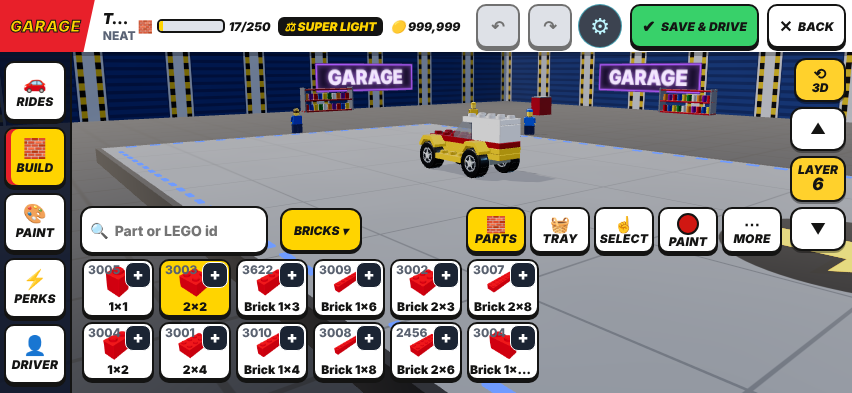
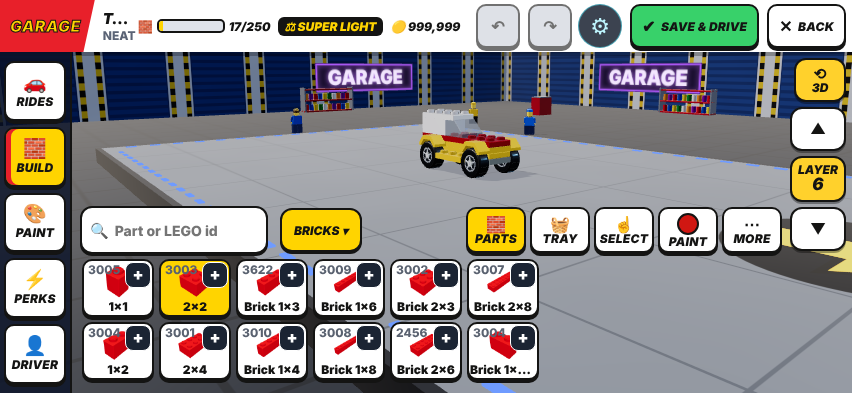
veh: Town Roadster (LEGO 604 Classic Town Car, fix: facing forward with --yaw 3, LDraw by Takeshi Takahashi, CCAL 2.0) as RIDES preset t_v604_1
Claude-Session: https://claude.ai/code/session_01EyTkWHVhqPJ5PdrDtAmH7s

Changed region(s): [[0.4883, 0.2748, 0.6103, 0.4275]]

diff --git a/src/98ld_v_604-1.js b/src/98ld_v_604-1.js
@@ -1,7 +1,7 @@
 // ---- LD data: real LEGO builds converted from LDraw OMR files (CCAL 2.0) by tools/ld/ld2garage.py + tools/ld/ld2src.py. Generated, do not edit.
 // Authors of the LDraw files: 604-1.mpd Takeshi Takahashi [RainbowDolphin]Takeshi Takahashi (RainbowDolphin). Details: docs/MODEL_PIPELINE.md.
[1 lines of base64/hex data omitted]
-Object.assign(LD_MODELS,{"v604_1":{"src":"604-1.mpd","by":"Takeshi Takahashi (RainbowDolphin)","n":17,"C":["#fac80a","#b40000","#8a928d","#1b2a34","#f4f4f4","~#fcfcfc"],"B":[["p28",-1,-4,4,2,0,0],["ld3787",-2,2,5,0,0,0],["ld3787",-2,-3,5,0,0,0],["p23",-1,-1,5,2,0,0],["p12",-1,-4,5,3,0,0],["p28",-1,-4,6,2,0,1],["ld122",-2,2,2,0,0,2],["ld122",-2,-3,2,0,0,2],["wS",1,1,1,0,0,3,0,-0.25,0],["wS",1,-4,1,0,0,3,0,-0.25,0],["wS",-2,1,1,0,0,3,0,-0.25,0],["wS",-2,-4,1,0,0,3,0,-0.25,0],["p23",0,-1,3,2,0,0],["p23",-2,-1,3,2,0,0],["b23",-1,-4,7,2,0,4],["s22",-1,-1,7,2,0,5,0,0.062,0],["p24",-1,-4,10,2,0,4]]}});
+Object.assign(LD_MODELS,{"v604_1":{"src":"604-1.mpd","by":"Takeshi Takahashi (RainbowDolphin)","n":17,"C":["#fac80a","#b40000","#8a928d","#1b2a34","#f4f4f4","~#fcfcfc"],"B":[["p28",-1,-3,4,0,0,0],["ld3787",-2,-3,5,2,0,0],["ld3787",-2,2,5,2,0,0],["p23",-1,-1,5,0,0,0],["p12",-1,4,5,1,0,0],["p28",-1,-3,6,0,0,1],["ld122",-2,-3,2,2,0,2],["ld122",-2,2,2,2,0,2],["wS",-2,-4,1,0,0,3,0,-0.25,0],["wS",-2,1,1,0,0,3,0,-0.25,0],["wS",1,-4,1,0,0,3,0,-0.25,0],["wS",1,1,1,0,0,3,0,-0.25,0],["p23",-2,-1,3,0,0,0],["p23",0,-1,3,0,0,0],["b23",-1,2,7,0,0,4],["s22",-1,0,7,0,0,5,0,0.062,0],["p24",-1,1,10,0,0,4]]}});
 for(const k of ["ld122", "ld3787"]){const D=LD_MESH[k];if(!GB_PC[k]){GB_PC[k]={n:D.n.replace(/^~/,''),w:D.w,d:D.d,h:D.h,cat:'LDraw',ic:'◆',hide:1,s:D.s.some(q=>!q[3])};G13_ID[k]=D.id}}
 {const R=GAR_set('rod'),L=n=>JSON.parse(JSON.stringify(R.load[n]));
  GAR_SETS.push({id:'t_v604_1',n:"Town Roadster (604)",tier:'c',req:null,car:()=>LD_br('v604_1'),off:R.off,boat:R.boat,tpl:1,ref:'604',forms:['car'],
